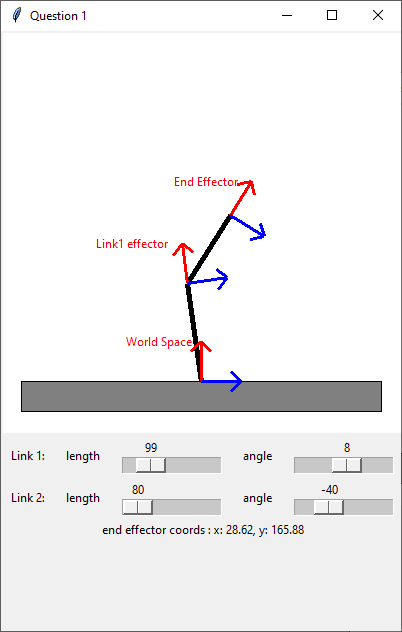
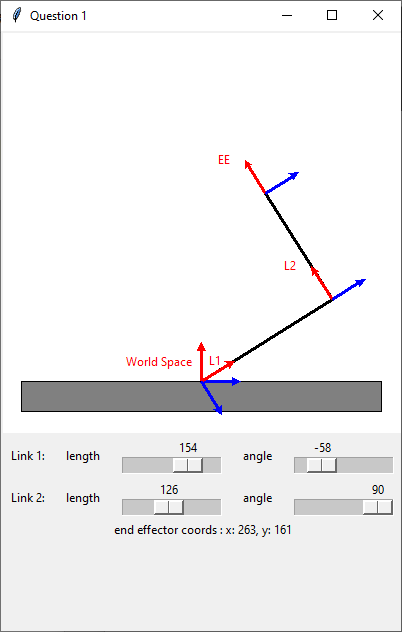
Q3 finished and Q1 bug fix

diff --git a/Q3.py b/Q3.py
@@ -1,0 +1,145 @@
+############################################
+# Author:  Zephyr Serret Verbist
+# Date:    2020-10-20
+# Version: 1.0
+# ------------------------------------------
+# Description:
+#   This is the main file for the first question of the ARO course work 1.
+#   It is a GUI that allows the user to change the parameters of the robot
+#   and see the result in real time.
+# Structure:
+#   The GUI is defined in the __init__ function.
+#   The canvas is updated every time the user changes a parameter (sliders). (see function update)
+#   The axes are drawn in the function drawAxis.
+#   The transformation matrices of the links are calculated in the function linkTransformMat.
+############################################
+
+import tkinter as tk
+import numpy as np
+
+class Q3App(tk.Tk):
+    def __init__(self):
+        super().__init__()
+        self.link1Length = 80
+        self.link2Length = 80
+        self.canvasToWorldSpace = np.matrix([[1, 0, 200],
+                                             [0, -1, 350],
+                                             [0, 0, 1]])  # move the origin to the base of the robot and flip the y axis
+        self.title("Question 3")
+        self.geometry("400x700")
+        self.MyGrid = tk.Frame(self)
+        self.MyGrid.grid(row=0, column=0, sticky="nsew")
+        self.canvas  = tk.Canvas(self.MyGrid, width=400, height=400, bg="white")
+        self.canvas.grid(row=0, column=0, columnspan=2)
+        tk.Label(self.MyGrid, text="Link 1 angle:").grid(row=1, column=0)
+        #variable for the slider
+        self.slider1 = tk.Scale(self.MyGrid, from_=0, to=180, orient=tk.HORIZONTAL, command=self.update)
+        self.slider1.set(45)
+        self.slider1.grid(row=1, column=1)
+        tk.Label(self.MyGrid, text="Link 2 angle:").grid(row=2, column=0)
+        self.slider2 = tk.Scale(self.MyGrid, from_=0, to=180, orient=tk.HORIZONTAL, command=self.update)
+        self.slider2.set(135)
+        self.slider2.grid(row=2, column=1)
+        self.label = tk.Label(self.MyGrid, text="current end effector coords : x: 0, y: 0")
+        self.label.grid(row=3, column=0, columnspan=3)
+        self.label2 = tk.Label(self.MyGrid, text="target position :")
+        self.label2.grid(row=4, column=0, columnspan=3)
+        self.entry1 = tk.Entry(self.MyGrid)
+        self.entry1.insert(0, 56)
+        self.entry1.grid(row=5, column=0)
+        self.entry2 = tk.Entry(self.MyGrid)
+        self.entry2.insert(0, 136)
+        self.entry2.grid(row=5, column=1)
+        self.button = tk.Button(self.MyGrid, text="GO", command=self.GO)
+        self.button.grid(row=6, column=0, columnspan=2, sticky="nsew", pady=10, padx=10)
+        self.label3 = tk.Label(self.MyGrid, text="current jacobian matrix :")
+        self.label3.grid(row=7, column=0, columnspan=3)
+        self.label4 = tk.Label(self.MyGrid, text="jacobian")
+        self.label4.grid(row=8, column=0, columnspan=3)
+
+    def linkTransformMat(self, length, angle):
+        return np.matrix([[np.cos(angle), -np.sin(angle), 0],
+                          [np.sin(angle), np.cos(angle), length],
+                          [0, 0, 1]])
+
+
+    def update(self, event):
+        self.canvas.delete("all")
+        # Draw the base
+        self.canvas.create_rectangle(20, 350, 380, 380, fill="grey")
+        # Get the transformation matrices of the links
+        t1 = np.deg2rad(self.slider1.get()-90)
+        t2 = np.deg2rad(self.slider2.get()-90)
+        transMatWSL1 = self.linkTransformMat(0, t1)
+        transMatL1L2 = self.linkTransformMat(self.link1Length, t2)
+        transMatL2EE = self.linkTransformMat(self.link2Length, 0)
+        # Get the transformation matrices of the links to canvas space
+        transMatCanvasWS = self.canvasToWorldSpace
+        transMatCanvasL1 = self.canvasToWorldSpace @ transMatWSL1
+        transMatCanvasL2 = self.canvasToWorldSpace @ transMatWSL1 @ transMatL1L2
+        transMatCanvasEE = self.canvasToWorldSpace @ transMatWSL1 @ transMatL1L2 @ transMatL2EE
+        transMatWSEE = transMatWSL1 @ transMatL1L2 @ transMatL2EE
+
+        # Draw the links
+        origin = np.array([[0, 0, 1]]).T
+        p1 = transMatCanvasL1 @ origin
+        p2 = transMatCanvasL2 @ origin
+        p3 = transMatCanvasEE @ origin
+        p3WS = transMatWSEE @ origin
+        self.canvas.create_line(p1[0, 0], p1[1, 0], p2[0, 0], p2[1, 0], fill="black", width=3)
+        self.canvas.create_line(p2[0, 0], p2[1, 0], p3[0, 0], p3[1, 0], fill="gray", width=3)
+        # Update the coord label
+        self.label.config(text="end effector coords : x: {}, y: {}".format(int(p3WS[0, 0]), int(p3WS[1, 0])))
+        #update the jacobian matrix
+        self.label4.config(text="{}".format(self.jacobian(t1,t2)))
+
+
+    def jacobian(self, t1, t2):
+        # the transformation matrices of the links
+        transMatWSL1 = self.linkTransformMat(0, t1)
+        transMatL1L2 = self.linkTransformMat(self.link1Length, t2)
+        transMatL2EE = self.linkTransformMat(self.link2Length, 0)
+        # the transformation matrices of the links to World Space
+        transMatWSL2 = transMatWSL1 @ transMatL1L2
+        transMatWSEE = transMatWSL2 @ transMatL2EE
+        # get the position of the end effector and links
+        origin = np.array([[0, 0, 1]]).T
+        EEPos = transMatWSEE @ origin
+        L2Pos = transMatWSL2 @ origin
+        L1Pos = transMatWSL1 @ origin
+        # calculate the jacobian
+        jacobian = np.vstack([np.cross([0,0,1], (EEPos-L1Pos).T), np.cross([0,0,1], (EEPos-L2Pos).T)])
+        return jacobian.T[0:2, :]
+
+
+    def GO(self):
+        t1 = np.deg2rad(self.slider1.get()-90)
+        t2 = np.deg2rad(self.slider2.get()-90)
+        jacobian = self.jacobian(t1, t2)
+        # get the desired position
+        target = np.array([int(self.entry1.get()), int(self.entry2.get())]).T
+        # get the current position
+        transMatWSL1 = self.linkTransformMat(0, np.deg2rad(self.slider1.get() - 90))
+        transMatL1L2 = self.linkTransformMat(self.link1Length, np.deg2rad(self.slider2.get() - 90))
+        transMatL2EE = self.linkTransformMat(self.link2Length, 0)
+        currPos = transMatWSL1 @ transMatL1L2 @ transMatL2EE @ np.array([[0, 0, 1]]).T
+        currPos = np.array([currPos[0, 0], currPos[1, 0]]).T
+        # calculate the error
+        dy = target - currPos
+
+        dt = np.linalg.pinv(jacobian) @ dy
+        self.slider1.set(np.rad2deg(t1 + dt[0])+90)
+        self.slider2.set(np.rad2deg(t2 + dt[1])+90)
+        self.update(None)
+
+
+
+
+def Q3launch():
+    app = Q3App()
+    app.update(None)
+    app.mainloop()
+
+if __name__ == "__main__":
+    Q3launch()
+

diff --git a/Q1.py b/Q1.py
@@ -10,8 +10,8 @@
 # Structure:
 #   The GUI is defined in the __init__ function.
 #   The canvas is updated every time the user changes a parameter (sliders). (see function update)
-#   The axis are drawn in the function drawAxis.
-#   The transformation matices of the links are calculated in the function linkTransformMat.
+#   The axes are drawn in the function drawAxis.
+#   The transformation matrices of the links are calculated in the function linkTransformMat.
 ############################################
 
 import tkinter as tk
@@ -47,15 +47,11 @@ class App(tk.Tk):
                                              [0, -1, 350],
                                              [0, 0, 1]]) # move the origin to the base of the robot and flip the y axis
     def linkTransformMat(self, length, angle):
-        rot =  np.matrix([[np.cos(angle), -np.sin(angle), 0],
-                          [np.sin(angle), np.cos(angle), 0],
+        return np.matrix([[np.cos(angle), -np.sin(angle), 0],
+                          [np.sin(angle), np.cos(angle), length],
                           [0, 0, 1]])
-        transpose = np.matrix([[1, 0, 0],
-                               [0, 1, length],
-                               [0, 0, 1]])
-        return rot * transpose
 
-    def drawAxis(self, transformMatrix, scale = 40, label=""):
+    def drawAxis(self, transformMatrix, scale = 40, label="", offset = 0):
         # draws the arrows of the axis according to the transform matrix
         arrow = np.array([[0, 0, 1], # arrow origin
                           [0, 1, 1], # up arrow
@@ -67,7 +63,7 @@ class App(tk.Tk):
         transformedArrow = transformMatrix @ scaledArrow
         self.canvas.create_line(transformedArrow[0, 0], transformedArrow[1, 0], transformedArrow[0, 1], transformedArrow[1, 1], arrow=tk.LAST, fill="red", width=3)
         self.canvas.create_line(transformedArrow[0, 0], transformedArrow[1, 0], transformedArrow[0, 2], transformedArrow[1, 2], arrow=tk.LAST, fill="blue", width=3)
-        self.canvas.create_text(transformedArrow[0,1]-5*len(label)/2- 15, transformedArrow[1,1], text=label, fill="red")
+        self.canvas.create_text(transformedArrow[0,1]-5*len(label)/2- 15, transformedArrow[1,1]+offset, text=label, fill="red")
 
 
 
@@ -75,25 +71,34 @@ class App(tk.Tk):
         self.canvas.delete("all")
         # Draw the base
         self.canvas.create_rectangle(20, 350, 380, 380, fill="grey")
-        # Draw the first link
-        origin = self.canvasToWorldSpace @ np.array([0,0,1])
-        link1Transform = self.linkTransformMat(self.sliderl1.get(), np.deg2rad(self.slidert1.get()))
-        endLink1 = self.canvasToWorldSpace @ link1Transform @ np.array([0,0,1])
-        self.canvas.create_line(origin[0,0], origin[0,1], endLink1[0,0], endLink1[0,1], fill="black", width=5)
-        # Draw first axis
-        self.drawAxis(self.canvasToWorldSpace, label="World Space")
-        # Draw the second link
-        link2Transform = self.linkTransformMat(self.sliderl2.get(), np.deg2rad(self.slidert2.get()))
-        worldEndLink2 = link1Transform @ link2Transform  @ np.array([0,0,1])
-        endLink2 = self.canvasToWorldSpace @ link1Transform @ link2Transform @ np.array([0,0,1])
-        self.canvas.create_line(endLink1[0,0], endLink1[0,1], endLink2[0,0], endLink2[0,1], fill="black", width=5)
-        # Draw first's link axis
-        self.drawAxis(self.canvasToWorldSpace @ link1Transform, label="Link1 effector")
-        # Draw the second link axis (end effector)
-        self.drawAxis(self.canvasToWorldSpace @ link1Transform @ link2Transform, label="End Effector")
-        # Update the label
+        # Get the transformation matrices of the links
+        transMatWSL1 = self.linkTransformMat(0, np.deg2rad(self.slidert1.get()))
+        transMatL1L2 = self.linkTransformMat(self.sliderl1.get(), np.deg2rad(self.slidert2.get()))
+        transMatL2EE = self.linkTransformMat(self.sliderl2.get(), 0)
+        # Get the transformation matrices of the links to canvas space
+        transMatCanvasWS = self.canvasToWorldSpace
+        transMatCanvasL1 = self.canvasToWorldSpace @ transMatWSL1
+        transMatCanvasL2 = self.canvasToWorldSpace @ transMatWSL1 @ transMatL1L2
+        transMatCanvasEE = self.canvasToWorldSpace @ transMatWSL1 @ transMatL1L2 @ transMatL2EE
+        transMatWSEE = transMatWSL1 @ transMatL1L2 @ transMatL2EE
 
-        self.label.config(text=f"end effector coords : x: {worldEndLink2[0,0]:.2f}, y: {worldEndLink2[0,1]:.2f}")
+        # Draw the links
+        origin = np.array([[0, 0, 1]]).T
+        p1 = transMatCanvasL1 @ origin
+        p2 = transMatCanvasL2 @ origin
+        p3 = transMatCanvasEE @ origin
+        p3WS = transMatWSEE @ origin
+
+        self.canvas.create_line(p1[0, 0], p1[1, 0], p2[0, 0], p2[1, 0], fill="black", width=3)
+        self.canvas.create_line(p2[0, 0], p2[1, 0], p3[0, 0], p3[1, 0], fill="black", width=3)
+        # Draw the axes
+        self.drawAxis(transMatCanvasWS, label="World Space", offset=20)
+        self.drawAxis(transMatCanvasL1, label="L1")
+        self.drawAxis(transMatCanvasL2, label="L2")
+        self.drawAxis(transMatCanvasEE, label="EE")
+        # Update the label
+        self.label.config(text="end effector coords : x: {}, y: {}".format(int(p3WS[0, 0]), int(p3WS[1, 0])))
+
 
 
 

diff --git a/main.py b/main.py
@@ -3,6 +3,7 @@
 import tkinter as tk
 
 from Q1 import Q1launch
+from Q3 import Q3launch
 
 
 class App(tk.Tk):
@@ -23,12 +24,14 @@ class App(tk.Tk):
         self.button1.grid(row=1, column=1, sticky="nsew")
         self.label2 = tk.Label(self.myGrid, text="Inverse Kinematics")
         self.label2.grid(row=2, column=0, sticky="nsew")
-        self.button2 = tk.Button(self.myGrid, text="Visualize Q2", command=self.button2)
+        self.button2 = tk.Button(self.myGrid, text="Visualize Q3", command=self.button2)
         self.button2.grid(row=2, column=1, sticky="nsew")
+        self.button4 = tk.Button(self.myGrid, text="Visualize Q4", command=self.button4)
+        self.button4.grid(row=3, column=1, sticky="nsew")
         self.label3 = tk.Label(self.myGrid, text="Motion Planning")
-        self.label3.grid(row=3, column=0, sticky="nsew")
+        self.label3.grid(row=4, column=0, sticky="nsew")
         self.button3 = tk.Button(self.myGrid, text="Visualize Q3", command=self.button3)
-        self.button3.grid(row=3, column=1, sticky="nsew")
+        self.button3.grid(row=4, column=1, sticky="nsew")
 
         self.myGrid.pack()
         # Footer
@@ -39,10 +42,13 @@ class App(tk.Tk):
         Q1launch()
 
     def button2(self):
-        self.label.config(text="Button 2 was pressed")
+        Q3launch()
 
     def button3(self):
         self.label.config(text="Button 3 was pressed")
+
+    def button4(self):
+        self.label.config(text="Button 4 was pressed")
 
 if __name__ == "__main__":
     app = App()
